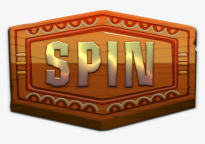
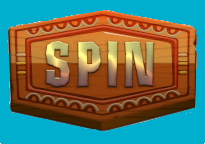
committing

diff --git a/src/eoinMiniProject/gameMenu.java b/src/eoinMiniProject/gameMenu.java
@@ -33,14 +33,8 @@ public class gameMenu extends javax.swing.JFrame
 
     slotMath s1 = new slotMath();
 
-
-
-
-
     private JLabel[] labels;
 
-    ImageIcon imageBanana = new ImageIcon("imageBanana.png");
-    ImageIcon imageBar = new ImageIcon("imageBAR.png");
 
     public void setLabels()
     {
@@ -78,7 +72,7 @@ public class gameMenu extends javax.swing.JFrame
         gameFrame.setDefaultCloseOperation(WindowConstants.EXIT_ON_CLOSE);
 
         gamePanel = new JPanel(null);
-        gamePanel.setBackground(Color.WHITE);
+        gamePanel.setBackground(new Color(0,175,206));
 
     }
 
@@ -124,6 +118,8 @@ public class gameMenu extends javax.swing.JFrame
     }
     public void addGameFrameButtons() {
 
+
+
         JButton playButton = new JButton();
         try {
             Image img = ImageIO.read(getClass().getResource("spinButton.png"));
@@ -151,11 +147,11 @@ public class gameMenu extends javax.swing.JFrame
         gamePanel.add(playButton);
 
 
-        JButton spin5 = new JButton("$5 Spin");
-        JButton spin10 = new JButton("$10 Spin");
-        JButton spin25 = new JButton("$25 Spin");
-        JButton spin50 = new JButton("$50 Spin");
-        JButton spin100 = new JButton("$100 Spin");
+        JButton spin5 = new JButton("€5 Spin");
+        JButton spin10 = new JButton("€10 Spin");
+        JButton spin25 = new JButton("€25 Spin");
+        JButton spin50 = new JButton("€50 Spin");
+        JButton spin100 = new JButton("€100 Spin");
 
         spin5.setSize(100, 50);
         spin10.setSize(100, 50);
@@ -261,7 +257,7 @@ public class gameMenu extends javax.swing.JFrame
         gamePanel.add(spin100);
 
 
-        JLabel currentBet = new JLabel("Your current bet is: " + betAmount);
+        JLabel currentBet = new JLabel("Your current bet is: €" + betAmount);
         currentBet.setVisible(true);
         currentBet.setBounds(1075, 580, 200, 50);
 
@@ -290,7 +286,7 @@ public class gameMenu extends javax.swing.JFrame
 
         gamePanel.add(returnToMain);
 
-        JLabel currentBalance = new JLabel("Your current balance is: " + gameMenuBalance);
+        JLabel currentBalance = new JLabel("Your current balance is: €" + gameMenuBalance);
         currentBalance.setVisible(true);
         currentBalance.setBounds(100, 625, 200, 50);
 
@@ -377,6 +373,32 @@ public class gameMenu extends javax.swing.JFrame
             gamePanel.add(label13);
             gamePanel.add(label14);
             gamePanel.add(label15);
+
+            JLabel winLabelLeft = new JLabel();
+            winLabelLeft.setBounds(200,160,200,200);
+            winLabelLeft.setIcon(new ImageIcon("winImage.png"));
+
+            JLabel winLabelRight = new JLabel();
+            winLabelRight.setBounds(880,160,200,200);
+            winLabelRight.setIcon(new ImageIcon("winImage.png"));
+
+            gamePanel.add(winLabelLeft);
+            gamePanel.add(winLabelRight);
+
+            if(s1.getWinningMultiplier() > 1)
+            {
+                winLabelLeft.setVisible(true);
+                winLabelRight.setVisible(true);
+            }
+            else
+            {
+                winLabelLeft.setVisible(false);
+                winLabelRight.setVisible(false);
+            }
+
+
+
+
         }
     }
 

diff --git a/src/eoinMiniProject/mainMenu.java b/src/eoinMiniProject/mainMenu.java
@@ -4,7 +4,9 @@ import javax.swing.*;
 import java.awt.*;
 import java.awt.event.ActionEvent;
 import java.awt.event.ActionListener;
+import java.io.FileWriter;
 import java.io.IOException;
+import java.io.*;
 
 
 public class mainMenu
@@ -12,11 +14,9 @@ public class mainMenu
     private JFrame mainFrame;
     private JPanel mainPanel;
     private double balance;
-
-
-
-
-
+    byte[] balanceArray = {(byte) balance};
+    File outFile = new File("file.data");
+    File inFile = new File("file.data");
 
 
     public mainMenu()
@@ -97,6 +97,11 @@ public class mainMenu
             @Override
             public void actionPerformed(ActionEvent e)
             {
+                try {
+                    balanceToFile(balance);
+                } catch (Exception exception) {
+                    exception.printStackTrace();
+                }
                 System.exit(0);
             }
         });
@@ -107,6 +112,7 @@ public class mainMenu
         mainBalance.setVisible(true);
 
         mainPanel.add(mainBalance);
+
     }
 
     public double getBalance()
@@ -127,4 +133,56 @@ public class mainMenu
     {
         this.balance = balance;
     }
+
+    public void balanceToFile(double balance) throws Exception
+    {
+
+        FileOutputStream outStream = new FileOutputStream(outFile);
+                balanceArray[0] = (byte) balance;
+
+        outStream.write(balanceArray);
+        outStream.close();
+    }
+    public void setBalanceFromFile() throws Exception
+    {
+
+        FileInputStream inputStream = new FileInputStream(inFile);
+
+        if (inFile.exists())
+        {
+
+            int fileSize = (int) inFile.length();
+            balanceArray = new byte[fileSize];
+
+            inputStream.read(balanceArray);
+
+
+
+
+            double valuesRead = balanceArray[0];
+            System.out.println("Values read from the file are: " + valuesRead);
+
+            inputStream.close();
+
+            setBalance(valuesRead);
+        }
+    }
+    public void balanceFileExistsCheck()
+    {
+        if(inFile.exists())
+        {
+            try {
+                setBalanceFromFile();
+            } catch (Exception e) {
+                e.printStackTrace();
+            }
+        }
+        else {
+
+        }
+    }
+
+
+
 }
+

diff --git a/src/eoinMiniProject/slotMath.java b/src/eoinMiniProject/slotMath.java
@@ -154,46 +154,6 @@ public slotMath ()
         fullRows = new int[]{randomNum1,randomNum2,randomNum3,randomNum4,randomNum5,randomNum6,randomNum7,randomNum8,randomNum9,randomNum10,randomNum11,randomNum12,randomNum13,randomNum14,randomNum15};
     }
 
-    public int getRandomNum1() {return randomNum1;}
-
-    public int getRandomNum2() {return randomNum2;}
-
-    public int getRandomNum3() {return randomNum3;}
-
-    public int getRandomNum4() {return randomNum4;}
-
-    public int getRandomNum5() {return randomNum5;}
-
-    public int getRandomNum6() {return randomNum6;}
-
-    public int getRandomNum7() {return randomNum7;}
-
-    public int getRandomNum8() {return randomNum8;}
-
-    public int getRandomNum9() {return randomNum9;}
-
-    public int getRandomNum10() {return randomNum1;}
-
-    public int getRandomNum11() {return randomNum2;}
-
-    public int getRandomNum12() {return randomNum3;}
-
-    public int getRandomNum13() {return randomNum4;}
-
-    public int getRandomNum14() {return randomNum5;}
-
-    public int getRandomNum15() {return randomNum6;}
-
-    public int[] getRow1() { return row1;}
-
-    public int[] getRow2() {return row2;}
-
-    public int[] getRow3() {return row3;}
-
-    public int[] getRow4() {return row4;}
-
-    public int[] getRow5() {return row5;}
-
     public void setWinningMultiplierBasedOnSymbolRow1()
     {
              if (randomNum1 == 1){winningMultiplierBasedOnSymbolRow1 = 9;}

diff --git a/src/eoinMiniProject/bankMenu.java b/src/eoinMiniProject/bankMenu.java
@@ -5,6 +5,8 @@ import javax.tools.Tool;
 import java.awt.*;
 import java.awt.event.ActionEvent;
 import java.awt.event.ActionListener;
+import java.io.File;
+import java.io.FileOutputStream;
 
 
 public class bankMenu
@@ -82,6 +84,8 @@ public class bankMenu
                     depositAmount = Integer.parseInt(depositAmountAsString);
 
 
+
+
                     if (depositAmount > 1000) {
                         JOptionPane.showMessageDialog(null, "You cannot deposit more than 1000 Euro");
 
@@ -97,6 +101,7 @@ public class bankMenu
                         displayBankMenu();
                     }
                 }
+
                 mainMenu m1 = new mainMenu();
                 m1.setBalanceAfterBank(bankMenuBalance);
             }
@@ -157,5 +162,7 @@ public class bankMenu
         bankBalance.setForeground(Color.white);
         bankPanel.add(bankBalance);
     }
+
+
 }
 

diff --git a/src/eoinMiniProject/runSlotMachine.java b/src/eoinMiniProject/runSlotMachine.java
@@ -1,12 +1,17 @@
 package eoinMiniProject;
+import java.io.*;
 
 
 
 public class runSlotMachine
 {
-    public static void main(String[] args)
+
+
+    public static void main(String[] args) throws Exception
     {
         mainMenu m1 = new mainMenu();
+
+        m1.balanceFileExistsCheck();
         m1.displayMainMenu();
     }
 }
